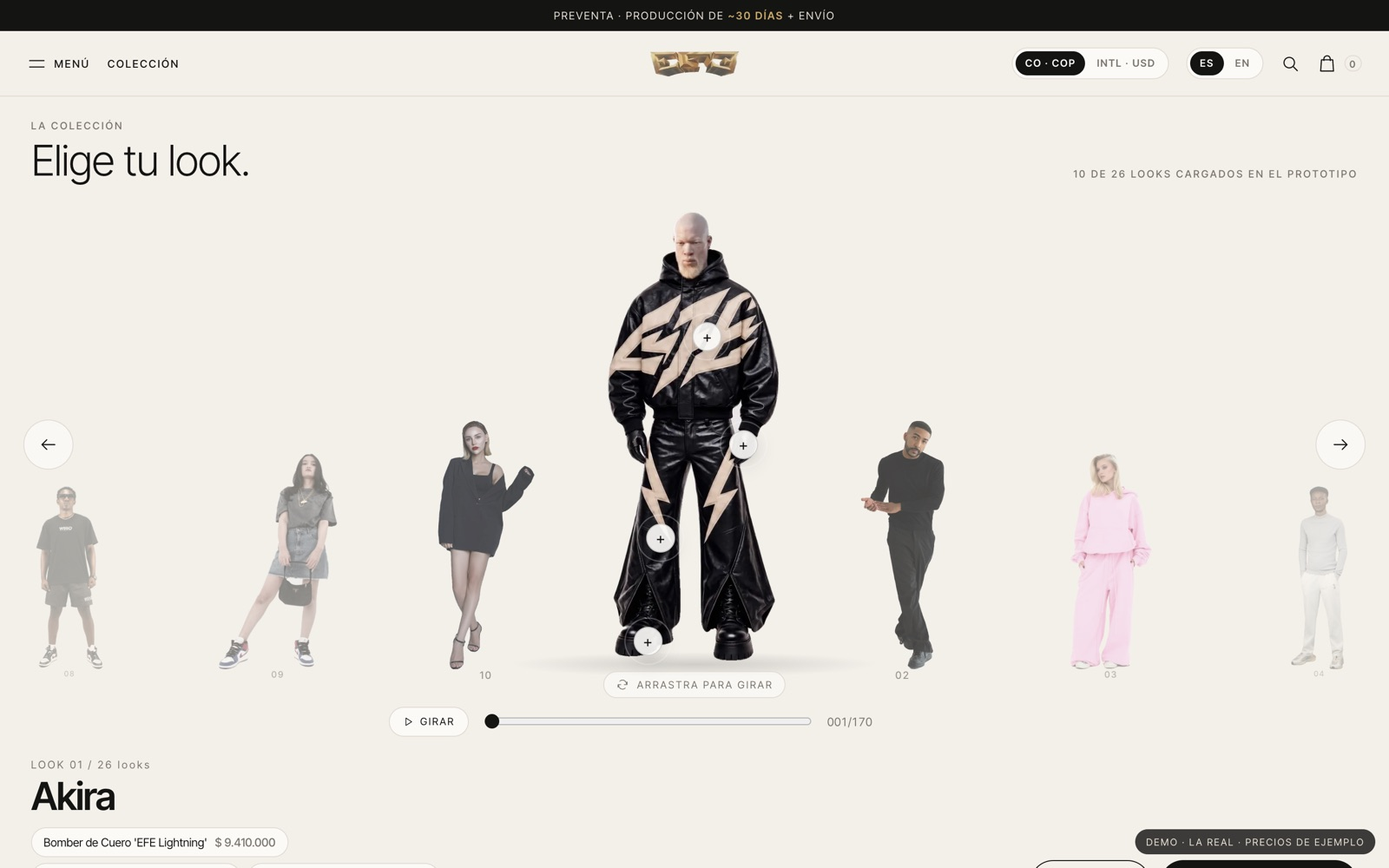
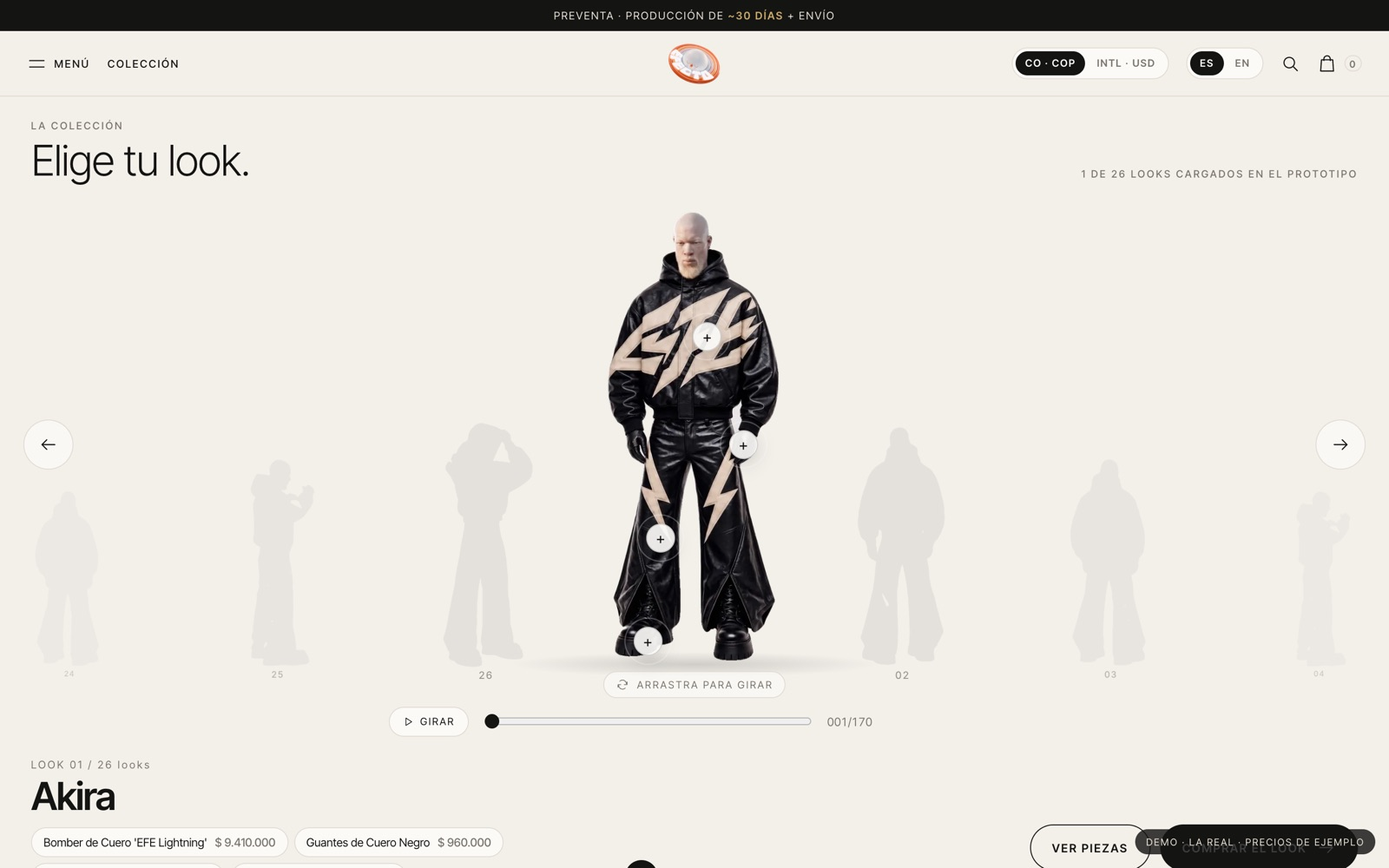
Marca Shopefecto y siluetas en lugar de looks de ejemplo

diff --git a/demo/index.html b/demo/index.html
@@ -4,7 +4,7 @@
 <meta charset="utf-8">
 <meta name="viewport" content="width=device-width,initial-scale=1,viewport-fit=cover">
 <meta name="robots" content="noindex">
-<title>EFE Showroom</title>
+<title>Shopefecto Showroom</title>
 <meta name="description" content="Prototipo funcional del showroom EFE Runway 2026: looks, giro 360°, compra por pieza en preventa, Colombia e internacional.">
 <link rel="preconnect" href="https://fonts.googleapis.com">
 <link rel="preconnect" href="https://fonts.gstatic.com" crossorigin>
@@ -33,7 +33,7 @@ img{display:block;max-width:100%}
 .intro.gone{opacity:0;visibility:hidden}
 .intro::before{content:"";position:absolute;inset:0;background:radial-gradient(60% 50% at 50% 42%,rgba(201,169,106,.16),transparent 70%);pointer-events:none}
 .intro .eyebrow{color:#a9a294}
-.intro img{width:min(246px,60vw);filter:drop-shadow(0 18px 40px rgba(201,169,106,.25))}
+.intro img{width:min(170px,44vw);filter:drop-shadow(0 18px 40px rgba(201,169,106,.25))}
 .intro h1{font-weight:300;font-size:clamp(22px,3vw,30px);letter-spacing:-.01em;margin:0;max-width:560px;line-height:1.25}
 .intro .markets{display:flex;gap:12px;flex-wrap:wrap;justify-content:center;margin-top:6px}
 .intro .mk{border:1px solid rgba(244,239,230,.25);border-radius:999px;padding:14px 22px;font-size:13px;letter-spacing:.06em;display:flex;gap:10px;align-items:center;transition:.25s}
@@ -48,7 +48,7 @@ img{display:block;max-width:100%}
 .top .r{justify-content:flex-end}
 .tbtn{display:inline-flex;align-items:center;gap:8px;font-size:11px;letter-spacing:.14em;text-transform:uppercase;min-height:44px;font-weight:500}
 .tbtn:hover{color:var(--gold)}
-.logo{height:26px;width:auto}
+.logo{height:42px;width:auto}
 .pill-sw{display:inline-flex;border:1px solid var(--line);border-radius:999px;padding:3px;gap:2px;background:var(--paper)}
 .pill-sw button{font-size:10.5px;letter-spacing:.1em;padding:6px 10px;white-space:nowrap;border-radius:999px;font-weight:600;color:var(--muted)}
 .pill-sw button[aria-pressed=true]{background:var(--ink);color:var(--paper)}
@@ -68,6 +68,8 @@ img{display:block;max-width:100%}
 #cast.dragging .figure{transition:transform .08s linear,opacity .3s}
 .figure .photo{transition:filter .9s ease}
 .figure.side .photo,.figure.far .photo{filter:saturate(.75) brightness(1.02)}
+.figure .photo.ph{filter:brightness(0)!important;opacity:.085}
+.figure.hero .photo.ph{opacity:.13}
 .hss{position:absolute;inset:0;opacity:0;transition:opacity .45s ease .45s;pointer-events:none}
 .hss.in{opacity:1}
 .figure.moving .hss{opacity:0;transition-delay:0s;transition-duration:.15s}
@@ -333,7 +335,7 @@ dialog.drawer.left[open]{animation:slideL .45s var(--ease)}
   .top{padding:0 12px;height:60px}
   .top .l,.top .r{gap:6px}
   .hide-m{display:none!important}
-  .logo{height:21px}
+  .logo{height:34px}
   .mast{padding:0 16px}
   .mast .side{display:none}
   .figure{--gap:clamp(96px,30vw,160px)}
@@ -392,7 +394,7 @@ dialog.drawer.left[open]{animation:slideL .45s var(--ease)}
 <!-- Intro / selector de mercado -->
 <section class="intro" id="intro" aria-label="Bienvenida" data-note="A · Landing de entrada + selector de mercado">
   <span class="eyebrow">Runway / 2026</span>
-  <img src="assets/logo.png" alt="EFE">
+  <img src="assets/logo-shopefecto.png" alt="Shopefecto">
   <h1 data-t="introH">La colección del desfile, pieza por pieza.</h1>
   <p class="geo" id="geo"></p>
   <div class="markets">
@@ -408,7 +410,7 @@ dialog.drawer.left[open]{animation:slideL .45s var(--ease)}
     <button class="tbtn" data-act="menu" aria-label="Menú"><svg class="icon"><use href="#i-menu"/></svg><span class="hide-m" data-t="menu">Menú</span></button>
     <button class="tbtn hide-m" data-act="goto" data-to="coleccion" data-t="collection">Colección</button>
   </div>
-  <a href="#" data-act="home" aria-label="EFE inicio"><img class="logo" src="assets/logo.png" alt="EFE"></a>
+  <a href="#" data-act="home" aria-label="Shopefecto inicio"><img class="logo" src="assets/logo-shopefecto.png" alt="Shopefecto"></a>
   <div class="r">
     <div class="pill-sw hide-m" role="group" aria-label="Mercado" data-note="B · Mercados CO / INTL">
       <button data-act="market" data-market="CO">CO · COP</button>
@@ -474,7 +476,7 @@ dialog.drawer.left[open]{animation:slideL .45s var(--ease)}
         <span class="lbl" data-t="popLbl">Render del inflable · lo entrega el estudio</span>
       </div>
       <div>
-        <span class="eyebrow">EFE Pop-up</span>
+        <span class="eyebrow">Shopefecto Pop-up</span>
         <h3 style="margin-bottom:16px" data-t="popTitle">Una tienda que se infla donde menos la esperas.</h3>
         <p class="lede" data-t="popText">Nuestra tienda itinerante e inflable recorre la ciudad. Pruébate la colección en persona, ve las piezas del desfile y lleva tu preventa.</p>
         <ul class="stops" id="stops"></ul>
@@ -487,19 +489,19 @@ dialog.drawer.left[open]{animation:slideL .45s var(--ease)}
     <div class="collectives">
       <a href="#" data-act="noop"><b>Estudio 3D</b><span data-t="coll1">Diseño, render y dirección visual detrás de cada look.</span><i data-t="visit">Visitar <svg class="icon" style="width:14px;height:14px"><use href="#i-ext"/></svg></i></a>
       <a href="#" data-act="noop"><b>Música</b><span data-t="coll2">El sonido del desfile y los proyectos musicales del colectivo.</span><i data-t="visit">Visitar <svg class="icon" style="width:14px;height:14px"><use href="#i-ext"/></svg></i></a>
-      <a href="#" data-act="noop"><b>shopefecto.com</b><span data-t="coll3">La tienda de siempre: colecciones disponibles con entrega inmediata en Colombia.</span><i data-t="visit">Visitar <svg class="icon" style="width:14px;height:14px"><use href="#i-ext"/></svg></i></a>
+      <a href="#" data-act="noop"><b>Colecciones anteriores</b><span data-t="coll3">La tienda de siempre: colecciones disponibles con entrega inmediata en Colombia.</span><i data-t="visit">Visitar <svg class="icon" style="width:14px;height:14px"><use href="#i-ext"/></svg></i></a>
     </div>
   </section>
 </main>
 
 <footer data-note="B · Footer: políticas, legales, medios de pago">
   <div class="foot">
-    <div><img src="assets/logo.png" alt="EFE" style="height:30px;margin-bottom:18px"><p data-t="footP">Colección Runway 2026. Todas las piezas se venden en preventa y se producen bajo pedido.</p></div>
+    <div><img src="assets/logo-shopefecto.png" alt="Shopefecto" style="height:56px;margin-bottom:14px"><p data-t="footP">Colección Runway 2026. Todas las piezas se venden en preventa y se producen bajo pedido.</p></div>
     <div><h5 data-t="shop">Tienda</h5><button data-act="goto" data-to="showroom">Looks</button><button data-act="goto" data-to="coleccion" data-t="collection">Colección</button><button data-act="goto" data-to="popup">Pop-up</button><button data-act="goto" data-to="colectivos" data-t="collectives">Colectivos</button></div>
     <div><h5 data-t="help">Ayuda</h5><button data-act="policy" data-p="preorder" data-t="pPre">Preventa</button><button data-act="policy" data-p="shipping" data-t="pShip">Envíos</button><button data-act="policy" data-p="returns" data-t="pRet">Cambios y devoluciones</button><button data-act="policy" data-p="sizes" data-t="pSize">Guía de tallas</button></div>
     <div><h5>Legal</h5><button data-act="policy" data-p="terms" data-t="pTerms">Términos y condiciones</button><button data-act="policy" data-p="privacy" data-t="pPriv">Privacidad</button><a href="#" data-act="noop">Instagram</a></div>
   </div>
-  <div class="legal"><span>© 2026 EFE</span><div class="pay" id="payIcons"></div></div>
+  <div class="legal"><span>© 2026 Shopefecto</span><div class="pay" id="payIcons"></div></div>
 </footer>
 
 <button class="notes-fab" data-act="roadmap" aria-label="Notas del prototipo"><i>?</i><span>¿La logramos? · Notas</span></button>
@@ -529,54 +531,10 @@ const LOOKS=[
    ['ak-gloves','accessories',290,73,52,['S/M','L/XL'],'Guantes de Cuero Negro','Black Leather Gloves','Napa suave con puño ajustado.','Soft nappa with a fitted cuff.'],
    ['ak-pants','pants',1890,34,72,['S','M','L','XL'],"Pantalón Flare 'Bolt'","'Bolt' Flared Trousers",'Cuero negro de bota acampanada con rayos en contraste y abertura en el ruedo.','Black leather flare with contrast bolts and a split hem.'],
    ['ak-boots','footwear',1250,28,94,['39','40','41','42','43','44'],"Botas 'EFE Titan'","'EFE Titan' Boots",'Bota de combate de doble suela dentada.','Double lug-sole combat boot.']]},
- {id:2,name:'Noir Tailoring',img:M('jaQTN9X98wA'),ar:472/1400,
-  items:[
-   ['l1-knit','tops',420,62,25,['S','M','L','XL'],'Suéter Merino Noir','Noir Merino Knit','Tejido fino de merino en negro profundo, cuello redondo y caída limpia.','Fine-gauge merino in deep black, crew neck, clean drape.'],
-   ['l1-pants','pants',480,58,66,['28','30','32','34','36'],'Pantalón Sastre Recto','Straight Tailored Trousers','Lana fría con pinza frontal y bota recta.','Tropical wool with a front pleat and straight leg.'],
-   ['l1-shoes','footwear',560,66,96,['39','40','41','42','43','44'],'Derby de Cuero Negro','Black Leather Derby','Cuero pulido con suela de goma ligera.','Polished leather with a light rubber sole.']]},
- {id:3,name:'Rosa Volumen',img:M('4ywQOCAl2XI'),ar:528/1400,
-  items:[
-   ['l2-hoodie','tops',320,48,30,['XS','S','M','L'],'Hoodie Oversized Rosa','Oversized Pink Hoodie','Felpa pesada de 450 gsm, capucha doble y hombro caído.','450 gsm heavyweight fleece, double hood, dropped shoulder.'],
-   ['l2-pants','pants',290,40,68,['XS','S','M','L'],'Jogger Wide Rosa','Wide Pink Jogger','Pierna amplia con cordón y ruedo abierto.','Wide leg with drawcord and open hem.'],
-   ['l2-shoes','footwear',380,30,97,['35','36','37','38','39','40'],'Sneaker Blanco Low','White Low Sneaker','Cuero blanco y suela vulcanizada.','White leather, vulcanised sole.']]},
- {id:4,name:'Gris Calma',img:M('nS1kxf6nP24'),ar:430/1400,
-  items:[
-   ['l3-knit','tops',360,54,23,['S','M','L','XL'],'Cuello Alto Gris Perla','Pearl Grey Mock Neck','Punto acanalado ajustado en gris perla.','Close-fitting ribbed knit in pearl grey.'],
-   ['l3-pants','pants',310,50,64,['S','M','L','XL'],'Jogger Crudo Bordado','Embroidered Ecru Jogger','Algodón cepillado con bordado EFE en la pierna.','Brushed cotton with EFE embroidery on the leg.'],
-   ['l3-shoes','footwear',450,38,96,['39','40','41','42','43','44'],'Runner Arena','Sand Runner','Malla técnica y gamuza en tonos arena.','Technical mesh and suede in sand tones.']]},
- {id:5,name:'Cuero Nocturno',img:M('YfBInBEDxJs'),ar:539/1400,
-  items:[
-   ['l4-coat','outerwear',1650,50,32,['XS','S','M','L'],'Gabardina de Cuero con Cinturón','Belted Leather Trench','Napa negra encerada, cinturón anudado y hombro estructurado.','Waxed black nappa, tie belt and structured shoulder.'],
-   ['l4-skirt','pants',620,50,72,['XS','S','M','L'],'Falda Midi de Cuero','Leather Midi Skirt','Corte recto a media pierna con abertura posterior.','Straight mid-calf cut with a back slit.'],
-   ['l4-boots','footwear',780,50,96,['35','36','37','38','39','40'],'Botín Punta Fina','Pointed Ankle Boot','Cuero negro, tacón bloque de 50 mm.','Black leather, 50 mm block heel.']]},
- {id:6,name:'Denim Ancho',img:M('wePLgr6wZHc'),ar:541/1400,
-  items:[
-   ['l6-tank','tops',140,52,27,['XS','S','M','L'],'Tank Acanalado WET','WET Ribbed Tank','Algodón acanalado con estampado frontal.','Ribbed cotton with front print.'],
-   ['l6-jeans','pants',390,50,64,['24','26','28','30','32'],'Jean Cargo Wide','Wide Cargo Jean','Denim lavado claro con bolsillos cargo laterales.','Light-wash denim with side cargo pockets.'],
-   ['l6-shoes','footwear',420,24,96,['35','36','37','38','39','40'],'Sneaker Retro Lila','Lilac Retro Sneaker','Gamuza y cuero en lila y blanco.','Suede and leather in lilac and white.']]},
- {id:7,name:'Contraste',img:M('fZE-hydbrng'),ar:529/1400,
-  items:[
-   ['l7-blazer','outerwear',890,35,32,['XS','S','M','L'],'Blazer Cruzado Negro','Black Double-Breasted Blazer','Lana negra con hombro marcado y largo a la cadera.','Black wool, sharp shoulder, hip length.'],
-   ['l7-pants','pants',460,55,72,['XS','S','M','L'],'Palazzo Blanco Óptico','Optic White Palazzo','Tiro alto y pierna extra amplia con caída fluida.','High rise, extra-wide fluid leg.'],
-   ['l7-heels','footwear',610,84,96,['35','36','37','38','39','40'],'Stiletto Charol','Patent Stiletto','Punta afilada y tacón de 100 mm.','Pointed toe, 100 mm heel.']]},
- {id:8,name:'Calle',img:M('13eaC9bFjGQ'),ar:511/1400,
-  items:[
-   ['l8-glasses','accessories',190,44,5,['U'],'Gafas Slim Negras','Slim Black Sunglasses','Montura rectangular delgada, lente UV400.','Slim rectangular frame, UV400 lens.'],
-   ['l8-tee','tops',150,46,26,['S','M','L','XL'],'Camiseta Boxy Logo','Boxy Logo Tee','Algodón de 260 gsm con estampado en pecho.','260 gsm cotton with chest print.'],
-   ['l8-shorts','pants',220,53,57,['S','M','L','XL'],'Short Nylon Técnico','Technical Nylon Short','Nylon liviano con logo bordado.','Lightweight nylon with embroidered logo.'],
-   ['l8-shoes','footwear',470,82,95,['39','40','41','42','43','44'],'Sneaker High Tricolor','Tricolor High-Top','Cuero en negro, blanco y rojo.','Leather in black, white and red.']]},
- {id:9,name:'Mini Denim',img:M('6DaWU_VZ6Xg'),ar:765/1400,
-  items:[
-   ['l9-tee','tops',150,70,26,['XS','S','M','L'],'Camiseta Lavada Grafito','Washed Graphite Tee','Algodón lavado a la piedra, corte boxy.','Stone-washed cotton, boxy cut.'],
-   ['l9-skirt','pants',260,66,46,['24','26','28','30'],'Mini Falda Denim','Denim Mini Skirt','Denim rígido con ruedo deshilachado.','Rigid denim with a frayed hem.'],
-   ['l9-bag','accessories',540,62,62,['U'],'Bolso Media Luna','Half-Moon Bag','Nylon negro con herrajes metálicos.','Black nylon with metal hardware.'],
-   ['l9-shoes','footwear',420,18,92,['35','36','37','38','39','40'],'Sneaker High Navy','Navy High-Top','Cuero en azul, blanco y rojo.','Leather in navy, white and red.']]},
- {id:10,name:'Blazer Noche',img:M('7bHYFyelqXM'),ar:542/1400,
-  items:[
-   ['l10-blazer','outerwear',980,40,30,['XS','S','M','L'],'Blazer Vestido Oversized','Oversized Blazer Dress','Blazer largo que se usa como vestido, solapa en pico.','Long blazer worn as a dress, peak lapel.'],
-   ['l10-heels','footwear',560,34,94,['35','36','37','38','39','40'],'Sandalia de Tiras','Strappy Sandal','Tiras finas de cuero y tacón de 90 mm.','Fine leather straps, 90 mm heel.']]}
 ];
 const TOTAL_LOOKS=26; // lanzamiento real
+// Personajes 02–26: siluetas hasta que lleguen sus frames
+for(let k=2;k<=TOTAL_LOOKS;k++) LOOKS.push({id:k,name:'',ph:true,ar:453/1000,img:`assets/akira/f${String([0,22,44,66,88,120,150][k%7]).padStart(3,'0')}.webp`,items:[]});
 LOOKS.forEach((L,i)=>{
   L.code='LOOK '+String(L.id).padStart(2,'0');
   L.items=L.items.map(a=>({id:a[0],cat:a[1],usd:a[2],x:a[3],y:a[4],sizes:a[5],name:{es:a[6],en:a[7]},desc:{es:a[8],en:a[9]},look:L}));
@@ -591,7 +549,7 @@ const PROD_DAYS=30;
 /* ================= I18N ================= */
 const T={
  es:{introH:'La colección del desfile, pieza por pieza.',introDate:'Preventa abierta · 16 de octubre',announce:'Preventa · Producción de <b>~30 días</b> + envío',menu:'Menú',collection:'Colección',theCollection:'La colección',chooseLook:'Elige tu look.',explore:'Ver piezas',shopLook:'Comprar el look',allPieces:'Todas las piezas.',searchPh:'Buscar pieza o look',popLbl:'Render del inflable · lo entrega el estudio',popTitle:'Una tienda que se infla donde menos la esperas.',popText:'Nuestra tienda itinerante e inflable recorre la ciudad. Pruébate la colección en persona, ve las piezas del desfile y aparta tu preventa.',ecosystem:'Ecosistema',collTitle:'Nuestros colectivos.',coll1:'Diseño, render y dirección visual detrás de cada look.',coll2:'El sonido del desfile y los proyectos musicales del colectivo.',coll3:'La tienda de siempre: colecciones disponibles con entrega inmediata en Colombia.',visit:'Visitar',footP:'Colección Runway 2026. Todas las piezas se venden en preventa y se producen bajo pedido.',shop:'Tienda',help:'Ayuda',collectives:'Colectivos',pPre:'Preventa',pShip:'Envíos',pRet:'Cambios y devoluciones',pSize:'Guía de tallas',pTerms:'Términos y condiciones',pPriv:'Privacidad',
-  looksOf:(n,t)=>`${n} / ${t} looks`,lookCount:(s,t)=>`${s} de ${t} looks cargados en el prototipo`,pieces:n=>`${n} piezas`,lookTotal:p=>`Look completo · ${p}`,drag:'Arrastra para girar',spin:'Girar',stop:'Pausa',no360:'Vista frontal',try360:'Prueba el giro 360° en el',loading:'Cargando giro',
+  looksOf:(n,t)=>`${n} / ${t} looks`,lookCount:(s,t)=>`${s} de ${t} looks cargados en el prototipo`,pieces:n=>`${n} piezas`,lookTotal:p=>`Look completo · ${p}`,drag:'Arrastra para girar',spin:'Girar',stop:'Pausa',no360:'Vista frontal',try360:'Prueba el giro 360° en el',soon:'Próximamente',soonTxt:'Personaje en producción',soonRot:'Frames en producción',inProd:'en producción',loading:'Cargando giro',
   all:'Todo',cats:{outerwear:'Chaquetas',tops:'Tops',pants:'Pantalones',footwear:'Calzado',accessories:'Accesorios'},noResults:'No encontramos piezas con esa búsqueda.',
   preorder:'Preventa',preTxt:d=>`Se produce bajo pedido: ~${PROD_DAYS} días de producción + envío. Despacho estimado desde el <strong>${d}</strong>.`,size:'Talla',sizeGuide:'Guía de tallas',qty:'Cantidad',add:'Agregar a la bolsa · Preventa',pickSize:'Elige una talla para continuar.',details:'Detalles',shipRet:'Envíos y cambios',complete:'Completa el look',ofLook:'del',photoPending:'Foto de la pieza sola · pendiente',
   bag:'Tu bolsa',empty:'Tu bolsa está vacía.',keep:'Seguir explorando',remove:'Quitar',subtotal:'Subtotal',shipping:'Envío',insurance:'Seguro de envío',total:'Total estimado',checkout:'Ir a pagar',zone:'Destino',dutiesNote:'<b>Impuestos y aranceles</b> de importación no están incluidos y los paga quien recibe al momento de la entrega.',coShipNote:'<b>Envío nacional</b> calculado en el checkout según ciudad.',preNote:'Todas las piezas son <b>preventa</b>: se cobran hoy y se despachan al terminar producción.',added:n=>`${n} en tu bolsa`,addedN:n=>`${n} piezas agregadas`,
@@ -599,7 +557,7 @@ const T={
   menuLooks:'Looks',menuColl:'Colección',menuPop:'Pop-up',menuColls:'Colectivos',menuPolicies:'Políticas',menuContact:'Contacto',policies:'Políticas',
   geoCO:'Parece que estás en Colombia.',geoINTL:'It looks like you are outside Colombia.',checkTitle:'Checkout de Shopify',checkTxt:'Aquí el cliente sale al checkout nativo de Shopify con la bolsa armada (cart permalink). Pasarelas por mercado:',back:'Volver a la tienda',zones:{na:'Estados Unidos y Canadá',eu:'Europa',la:'Latinoamérica',ro:'Resto del mundo'}},
  en:{introH:'The runway collection, piece by piece.',introDate:'Pre-order opens · October 16',announce:'Pre-order · <b>~30-day</b> production + shipping',menu:'Menu',collection:'Collection',theCollection:'The collection',chooseLook:'Choose your look.',explore:'View pieces',shopLook:'Shop the look',allPieces:'Every piece.',searchPh:'Search a piece or look',popLbl:'Inflatable render · supplied by the studio',popTitle:'A store that inflates where you least expect it.',popText:'Our travelling inflatable store tours the city. Try the collection on, see the runway pieces up close and place your pre-order.',ecosystem:'Ecosystem',collTitle:'Our collectives.',coll1:'Design, rendering and visual direction behind every look.',coll2:'The sound of the show and the collective’s music projects.',coll3:'Our everyday store: collections in stock, delivered across Colombia.',visit:'Visit',footP:'Runway 2026 collection. Every piece is sold on pre-order and made to order.',shop:'Shop',help:'Help',collectives:'Collectives',pPre:'Pre-order',pShip:'Shipping',pRet:'Returns & exchanges',pSize:'Size guide',pTerms:'Terms & conditions',pPriv:'Privacy',
-  looksOf:(n,t)=>`${n} / ${t} looks`,lookCount:(s,t)=>`${s} of ${t} looks loaded in this prototype`,pieces:n=>`${n} pieces`,lookTotal:p=>`Full look · ${p}`,drag:'Drag to rotate',spin:'Spin',stop:'Pause',no360:'Front view',try360:'Try the 360° spin on',loading:'Loading spin',
+  looksOf:(n,t)=>`${n} / ${t} looks`,lookCount:(s,t)=>`${s} of ${t} looks loaded in this prototype`,pieces:n=>`${n} pieces`,lookTotal:p=>`Full look · ${p}`,drag:'Drag to rotate',spin:'Spin',stop:'Pause',no360:'Front view',try360:'Try the 360° spin on',soon:'Coming soon',soonTxt:'Character in production',soonRot:'Frames in production',inProd:'in production',loading:'Loading spin',
   all:'All',cats:{outerwear:'Outerwear',tops:'Tops',pants:'Trousers',footwear:'Footwear',accessories:'Accessories'},noResults:'No pieces match your search.',
   preorder:'Pre-order',preTxt:d=>`Made to order: ~${PROD_DAYS} days of production + shipping. Estimated dispatch from <strong>${d}</strong>.`,size:'Size',sizeGuide:'Size guide',qty:'Quantity',add:'Add to bag · Pre-order',pickSize:'Choose a size to continue.',details:'Details',shipRet:'Shipping & returns',complete:'Complete the look',ofLook:'from',photoPending:'Single-piece photo · pending',
   bag:'Your bag',empty:'Your bag is empty.',keep:'Keep exploring',remove:'Remove',subtotal:'Subtotal',shipping:'Shipping',insurance:'Shipping insurance',total:'Estimated total',checkout:'Checkout',zone:'Destination',dutiesNote:'<b>Import duties and taxes</b> are not included and are paid by the recipient on delivery.',coShipNote:'<b>Domestic shipping</b> calculated at checkout.',preNote:'Every piece is a <b>pre-order</b>: charged today, shipped when production is complete.',added:n=>`${n} added to your bag`,addedN:n=>`${n} pieces added`,
@@ -638,7 +596,7 @@ function figureInner(L,frame=0){
   // velo sobre el control de reproductor que quedó grabado en las capturas de referencia
   const veil=L.cover?`<span class="veil" style="left:${L.cover.x}%;top:${L.cover.y}%;width:${L.cover.s}%"></span>`:'';
   if(L.frames) return `<img class="photo" src="${L.frameSrc[frame]}" alt="${L.code} · ${esc(L.name)}" draggable="false">${veil}`;
-  return `<img class="photo" src="${L.img}" alt="${L.code} · ${esc(L.name)}" draggable="false" decoding="async">`;
+  return L.ph ? `<img class="photo ph" src="${L.img}" alt="" draggable="false" decoding="async">` : `<img class="photo" src="${L.img}" alt="${L.code} · ${esc(L.name)}" draggable="false" decoding="async">`;
 }
 /* Recorte de la pieza a partir del look (placeholder hasta tener la foto de la pieza sola) */
 function pieceCrop(it,zoom=1){
@@ -696,14 +654,16 @@ function renderInfo(animate=false){
   const Lk=look();
   const fill=()=>{
     $('#lookNum').textContent=t('looksOf')(Lk.code,TOTAL_LOOKS);
-    $('#lookTitle').textContent=Lk.name;
+    $('#lookTitle').textContent=Lk.ph?t('soon'):Lk.name;
+    $('.cta').style.visibility=Lk.ph?'hidden':'';
+    if(Lk.ph){$('#pieces').innerHTML=`<span class="none" style="font-size:12px;letter-spacing:.12em;text-transform:uppercase;color:var(--muted)">${t('soonTxt')}</span>`;$('#totalLook').textContent='';return}
     $('#pieces').innerHTML=Lk.items.map(it=>`<button class="chip" data-act="product" data-id="${it.id}">${esc(nm(it))}<b>${money(it.usd)}</b></button>`).join('');
     $('#totalLook').textContent=t('lookTotal')(money(Lk.items.reduce((s,it)=>s+it.usd,0)));
   };
   const box=$('#lookText');
   if(animate){box.classList.add('out');clearTimeout(renderInfo.t);renderInfo.t=setTimeout(()=>{fill();box.classList.remove('out')},220)}else fill();
-  $('#idx').innerHTML=LOOKS.map((l,i)=>`<button data-act="look" data-i="${i}" aria-current="${i===S.i}" aria-label="${l.code}">${String(l.id).padStart(2,'0')}${l.frames?'<sup>360</sup>':''}</button>`).join('')+`<span class="more">+${TOTAL_LOOKS-LOOKS.length}</span>`;
-  $('#lookCountTxt').textContent=t('lookCount')(LOOKS.length,TOTAL_LOOKS);
+  $('#idx').innerHTML=LOOKS.map((l,i)=>l.ph?'':`<button data-act="look" data-i="${i}" aria-current="${i===S.i}" aria-label="${l.code}">${String(l.id).padStart(2,'0')}${l.frames?'<sup>360</sup>':''}</button>`).join('')+`<span class="more">+${LOOKS.filter(l=>l.ph).length} ${t('inProd')}</span>`;
+  $('#lookCountTxt').textContent=t('lookCount')(LOOKS.filter(l=>!l.ph).length,TOTAL_LOOKS);
   renderRot();
 }
 function renderRot(){
@@ -715,7 +675,7 @@ function renderRot(){
     $('#rng').addEventListener('input',e=>{stopSpin();setFrame(+e.target.value)});
   } else {
     const d=LOOKS.findIndex(l=>l.frames);
-    $('#rot').innerHTML=`<span class="none">${t('no360')}</span>${d>=0?`<button class="play" data-act="look" data-i="${d}"><svg class="icon" style="width:13px;height:13px"><use href="#i-rotate"/></svg>${t('try360')} ${LOOKS[d].code}</button>`:''}`;
+    $('#rot').innerHTML=`<span class="none">${Lk.ph?t('soonRot'):t('no360')}</span>${d>=0?`<button class="play" data-act="look" data-i="${d}"><svg class="icon" style="width:13px;height:13px"><use href="#i-rotate"/></svg>${t('try360')} ${LOOKS[d].code}</button>`:''}`;
   }
 }
 const frameLabel=Lk=>Lk.seq?`${String(S.frame+1).padStart(3,'0')}/${Lk.frames}`:Math.round(S.frame*360/Lk.frames)+'°';
@@ -919,7 +879,7 @@ function openCheckout(){
 
 /* menu */
 function openMenu(){
-  openDrawer('EFE',`<nav class="mnav">
+  openDrawer('Shopefecto',`<nav class="mnav">
     <button data-act="goto" data-to="showroom">${t('menuLooks')}<span class="sub">${TOTAL_LOOKS}</span></button>
     <button data-act="goto" data-to="coleccion">${t('menuColl')}<span class="sub">${PRODUCTS.size}+</span></button>
     ${Object.entries(t('cats')).map(([k,v])=>`<button data-act="gotoCat" data-c="${k}" style="font-size:18px;padding-left:16px;color:#4a473f">${v}</button>`).join('')}
@@ -1026,7 +986,7 @@ function openRoadmap(){
     3. <b>Pasarela internacional no aprobada</b> → el sitio internacional abre como lookbook con lista de espera hasta tener pasarela.<br>
     4. <b>Más looks o interacciones de las acordadas</b> → pasan a fase 2 (Plan C).</p>
   </div>
-  <p class="note" style="margin-top:30px">El Look 01 (AKIRA) usa los 170 frames reales del estudio: giro completo + animación de capucha, fondo recortado y optimizado a WebP. Los demás looks usan fotos libres de Unsplash con el fondo recortado, solo para ilustrar; en producción van los frames de cada personaje. Precios de ejemplo.</p>
+  <p class="note" style="margin-top:30px">El Look 01 (AKIRA) usa los 170 frames reales del estudio: giro completo + animación de capucha, fondo recortado y optimizado a WebP. Los otros 25 personajes aparecen como siluetas hasta que lleguen sus frames. Precios de ejemplo.</p>
   </div>`;
   openDrawer('¿La logramos? · Notas LA REAL',body,{cls:'wide'});
   $('#annSw').addEventListener('change',e=>{document.body.classList.toggle('ann',e.target.checked);write('efe-ann',e.target.checked)});
@@ -1073,8 +1033,8 @@ document.addEventListener('click',e=>{
       const it=PRODUCTS.get(id);
       if(!S.pickedSize){$('#sizeErr').textContent=t('pickSize');$('.sizes').animate([{transform:'translateX(-4px)'},{transform:'translateX(4px)'},{transform:'none'}],{duration:220});return}
       addToCart(id,S.pickedSize,S.qty); dlg.close(); toast(t('added')(nm(it))); break;}
-    case 'pieceSheet': openProduct(look().items[0].id); break;
-    case 'shopLook': openShopLook(); break;
+    case 'pieceSheet': if(look().items.length) openProduct(look().items[0].id); break;
+    case 'shopLook': if(look().items.length) openShopLook(); break;
     case 'lpOn': S.lookPick[id].on=b.checked; renderShopLook(); break;
     case 'lpSize': S.lookPick[id].size=b.dataset.s; S.lookPick[id].on=true; renderShopLook(); break;
     case 'lpAdd': {const sel=look().items.filter(it=>S.lookPick[it.id].on&&S.lookPick[it.id].size);sel.forEach(it=>addToCart(it.id,S.lookPick[it.id].size,1));dlg.close();toast(t('addedN')(sel.length));setTimeout(openCart,350);break;}

diff --git a/index.html b/index.html
@@ -4,9 +4,9 @@
     <meta charset="UTF-8">
     <meta name="viewport" content="width=device-width, initial-scale=1.0">
     <meta name="robots" content="noindex, nofollow">
-    <title>Showroom Runway 2026 — EFE x LA REAL</title>
+    <title>Showroom Runway 2026 — Shopefecto x LA REAL</title>
 
-    <meta property="og:title" content="Showroom Runway 2026 — EFE x LA REAL">
+    <meta property="og:title" content="Showroom Runway 2026 — Shopefecto x LA REAL">
     <meta property="og:description" content="Propuesta: showroom de 26 personajes en Shopify, web y mobile, Colombia e internacional. Entrega jueves 15 de octubre.">
     <meta property="og:image" content="https://juanfelareal.github.io/efe-showroom-propuesta/og-image.jpg">
     <meta property="og:url" content="https://juanfelareal.github.io/efe-showroom-propuesta/">
@@ -31,7 +31,7 @@
         .doc-head { display: flex; align-items: center; justify-content: space-between; gap: 20px; padding-bottom: 28px; border-bottom: 1px solid var(--line); margin-bottom: 44px; }
         .brands { display: flex; align-items: center; gap: 14px; }
         .brands img.lareal { height: 30px; filter: brightness(0); opacity: 0.9; }
-        .brands img.client { height: 28px; }
+        .brands img.client { height: 42px; }
         .brands .x { color: #9ca3af; font-weight: 300; font-size: 18px; }
         .doc-meta { font-size: 12px; font-weight: 600; letter-spacing: 1px; text-transform: uppercase; color: var(--muted); text-align: right; }
         .eyebrow { font-size: 12px; font-weight: 700; letter-spacing: 3px; text-transform: uppercase; color: var(--green); margin-bottom: 16px; }
@@ -211,16 +211,16 @@
     <div class="page">
 
         <div class="doc-head">
-            <div class="brands"><img class="lareal" src="logo-la-real.png" alt="LA REAL"><span class="x">×</span><img class="client" src="logo-efe.png" alt="EFE"></div>
+            <div class="brands"><img class="lareal" src="logo-la-real.png" alt="LA REAL"><span class="x">×</span><img class="client" src="logo-shopefecto.png" alt="Shopefecto"></div>
             <div class="doc-meta">Propuesta · 8 de octubre de 2026<br>Entrega: jueves 15 de octubre</div>
         </div>
 
         <!-- ===== TÍTULO + AKIRA ===== -->
         <div class="hero">
             <div>
-                <div class="eyebrow">Showroom EFE · Runway 2026</div>
+                <div class="eyebrow">Showroom Shopefecto · Runway 2026</div>
                 <h1>La colección del desfile, para comprarla pieza por pieza</h1>
-                <p class="lede">Desarrollo del showroom de <span class="brand">EFE</span> en Shopify: 26 personajes que giran, cada prenda conectada a su producto, venta en preventa y tienda para Colombia y el exterior.</p>
+                <p class="lede">Desarrollo del showroom de <span class="brand">Shopefecto</span> en Shopify: 26 personajes que giran, cada prenda conectada a su producto, venta en preventa y tienda para Colombia y el exterior.</p>
                 <ul class="hero-facts">
                     <li><span><b>26 personajes</b> con giro por frames</span></li>
                     <li><span><b>Web y mobile</b>, montado en su Shopify</span></li>
@@ -229,7 +229,7 @@
             </div>
             <div class="stage" id="stage" aria-label="AKIRA, arrastra para girar">
                 <span class="stage-load" id="stageLoad"></span>
-                <img id="akira" src="demo/assets/akira/f000.webp" alt="AKIRA, Look 01 de EFE" draggable="false">
+                <img id="akira" src="demo/assets/akira/f000.webp" alt="AKIRA, Look 01 de Shopefecto" draggable="false">
                 <div class="stage-ui"><span class="hint">Arrastra para girar</span><span class="bar"><i id="akBar"></i></span></div>
             </div>
         </div>
@@ -237,7 +237,7 @@
         <!-- ===== CONTEXTO ===== -->
         <section>
             <h2>Contexto</h2>
-            <p>La colección se lanza en la Fashion Week del <strong>viernes 16 de octubre</strong> y la página tiene que estar lista para vender ese día. Las piezas todavía no están producidas, así que la venta es por preventa. Hoy tienen <span class="brand">shopefecto.com</span> para Colombia y quieren una sola experiencia que también venda al exterior.</p>
+            <p>La colección se lanza en la Fashion Week del <strong>viernes 16 de octubre</strong> y la página tiene que estar lista para vender ese día. Las piezas todavía no están producidas, así que la venta es por preventa. Hoy <span class="brand">Shopefecto</span> vende en Colombia desde shopefecto.com y quiere una sola experiencia que también venda al exterior.</p>
             <div class="pillars">
                 <div class="pillar"><div class="pillar-n">01</div><div class="pillar-t">26 looks como personajes</div><p>Un carrusel donde cada look aparece completo, gira, y cada prenda se puede tocar para comprarla sola.</p></div>
                 <div class="pillar"><div class="pillar-n">02</div><div class="pillar-t">Venta en preventa</div><p>~30 días de producción más el envío, con la fecha estimada clara para quien compra.</p></div>
@@ -251,12 +251,12 @@
             <h2>Ya lo probamos con AKIRA</h2>
             <p>Tomamos los 170 frames del Look 01, les quitamos el fondo, los optimizamos y los conectamos al visor. Así se va a ver cada uno de los 26 personajes. La demo de abajo funciona: pueden pasar de un look a otro, girar a <span class="brand">AKIRA</span>, abrir la ficha de una prenda y cambiar a la tienda internacional en inglés y dólares.</p>
             <div class="demo-frame">
-                <iframe id="demoFrame" title="Demo del showroom EFE" data-src="demo/?embed" loading="lazy"></iframe>
-                <img src="cap-web-showroom.jpg" alt="Showroom EFE en computador">
+                <iframe id="demoFrame" title="Demo del showroom Shopefecto" data-src="demo/?embed" loading="lazy"></iframe>
+                <img src="cap-web-showroom.jpg" alt="Showroom Shopefecto en computador">
             </div>
             <div class="demo-actions">
                 <a class="btn" href="demo/" target="_blank" rel="noopener">Abrir la demo completa ↗</a>
-                <span class="demo-tip">Los demás looks usan fotos de referencia; los precios son de ejemplo.</span>
+                <span class="demo-tip">Los otros 25 personajes aparecen como siluetas hasta que lleguen sus frames. Precios de ejemplo.</span>
             </div>
         </section>
 
@@ -402,7 +402,7 @@
         <div class="next">
             <h2>Siguiente paso</h2>
             <p>Ezequiel, Claudia: si lo aprueban hoy, arrancamos esta tarde con el kickoff y armamos el grupo con Juan y Meli para ir resolviendo accesos, pasarela y frames.</p>
-            <a class="cta" href="https://wa.me/573043148428?text=Hola%20Juan%20Felipe%2C%20vimos%20la%20propuesta%20del%20showroom%20EFE" target="_blank" rel="noopener">
+            <a class="cta" href="https://wa.me/573043148428?text=Hola%20Juan%20Felipe%2C%20vimos%20la%20propuesta%20del%20showroom%20Shopefecto" target="_blank" rel="noopener">
                 <svg viewBox="0 0 24 24" fill="none" stroke="#fff" stroke-width="2"><path d="M22 16.92v3a2 2 0 0 1-2.18 2 19.79 19.79 0 0 1-8.63-3.07 19.5 19.5 0 0 1-6-6 19.79 19.79 0 0 1-3.07-8.67A2 2 0 0 1 4.11 2h3a2 2 0 0 1 2 1.72 12.84 12.84 0 0 0 .7 2.81 2 2 0 0 1-.45 2.11L8.09 9.91a16 16 0 0 0 6 6l1.27-1.27a2 2 0 0 1 2.11-.45 12.84 12.84 0 0 0 2.81.7A2 2 0 0 1 22 16.92z"/></svg>
                 Hablemos por WhatsApp
             </a>

diff --git a/slides.html b/slides.html
@@ -4,8 +4,8 @@
 <meta charset="UTF-8">
 <meta name="viewport" content="width=device-width, initial-scale=1.0">
 <meta name="robots" content="noindex, nofollow">
-<title>EFE — Propuesta Showroom Runway 2026 | LA REAL</title>
-<meta property="og:title" content="EFE — Propuesta Showroom Runway 2026 | LA REAL">
+<title>Shopefecto — Propuesta Showroom Runway 2026 | LA REAL</title>
+<meta property="og:title" content="Shopefecto — Propuesta Showroom Runway 2026 | LA REAL">
 <meta property="og:description" content="La colección del desfile, para comprarla pieza por pieza. 26 personajes, web y mobile, Shopify, Colombia e internacional.">
 <meta property="og:image" content="https://juanfelareal.github.io/efe-showroom-propuesta/og-image.jpg">
 <meta property="og:url" content="https://juanfelareal.github.io/efe-showroom-propuesta/">
@@ -256,7 +256,7 @@ h2{font-size:52px;font-weight:900;letter-spacing:-2px;line-height:1.05;text-alig
 <section class="slide slide-dark slide-portada" id="slide1">
   <div class="cover">
     <div>
-      <div class="cobrand"><img class="efe" src="logo-efe.png" alt="EFE"><span>×</span><img class="lr" src="logo-la-real.png" alt="LA REAL"></div>
+      <div class="cobrand"><img class="efe" src="logo-shopefecto.png" alt="Shopefecto"><span>×</span><img class="lr" src="logo-la-real.png" alt="LA REAL"></div>
       <span class="section-tag">Propuesta · Runway 2026</span>
       <h1>La colección del desfile, <span class="thin">para comprarla pieza por pieza.</span></h1>
       <p class="subtitle">Showroom de 26 personajes en Shopify, para web y celular, en Colombia y el exterior. Entrega el jueves 15 de octubre.</p>
@@ -268,7 +268,7 @@ h2{font-size:52px;font-weight:900;letter-spacing:-2px;line-height:1.05;text-alig
     </div>
     <div class="stage" id="stage" aria-label="AKIRA, arrastra para girar">
       <span class="stage-load" id="stageLoad"></span>
-      <img id="akira" src="demo/assets/akira/f000.webp" alt="AKIRA, Look 01 de EFE" draggable="false">
+      <img id="akira" src="demo/assets/akira/f000.webp" alt="AKIRA, Look 01 de Shopefecto" draggable="false">
       <div class="stage-ui"><span class="hint">Arrastra para girar</span><span class="bar"><i id="akBar"></i></span></div>
     </div>
   </div>
@@ -304,7 +304,7 @@ h2{font-size:52px;font-weight:900;letter-spacing:-2px;line-height:1.05;text-alig
       <a class="btn-demo" href="demo/" target="_blank" rel="noopener">Abrir la demo completa ↗</a>
     </div>
     <div class="laptop" id="laptop">
-      <iframe id="demoFrame" title="Demo del showroom EFE" data-src="demo/?embed" loading="lazy"></iframe>
+      <iframe id="demoFrame" title="Demo del showroom Shopefecto" data-src="demo/?embed" loading="lazy"></iframe>
       <div class="demo-cover"><span>Demo interactiva · pruébala aquí</span></div>
     </div>
   </div>
@@ -450,8 +450,8 @@ h2{font-size:52px;font-weight:900;letter-spacing:-2px;line-height:1.05;text-alig
   <h1 style="font-size:56px;max-width:900px">Si lo aprueban hoy, <span class="highlight">arrancamos esta tarde.</span></h1>
   <p class="subtitle" style="font-size:20px;margin-left:auto;margin-right:auto">Ezequiel, Claudia: quedamos atentos para armar el grupo con Juan y Meli.</p>
   <div class="close-ctas">
-    <a class="cta-wa" href="https://wa.me/573043148428?text=Hola%20Juan%20Felipe%2C%20vimos%20la%20propuesta%20del%20showroom%20EFE" target="_blank" rel="noopener"><svg width="20" height="20" viewBox="0 0 24 24" fill="white"><path d="M17.47 14.38c-.3-.15-1.76-.87-2.03-.97-.27-.1-.47-.15-.67.15-.2.3-.77.97-.94 1.16-.17.2-.35.22-.64.07-.3-.15-1.26-.46-2.4-1.48-.89-.79-1.49-1.77-1.66-2.07-.17-.3-.02-.46.13-.6.13-.14.3-.35.45-.52.15-.17.2-.3.3-.5.1-.2.05-.37-.03-.52-.07-.15-.67-1.61-.92-2.2-.24-.58-.49-.5-.67-.51h-.57c-.2 0-.52.07-.79.37-.27.3-1.04 1.02-1.04 2.48s1.07 2.88 1.21 3.07c.15.2 2.1 3.2 5.08 4.49.71.31 1.26.49 1.69.63.71.23 1.36.2 1.87.12.57-.09 1.76-.72 2.01-1.41.25-.7.25-1.29.17-1.41-.07-.13-.27-.2-.57-.35M12.05 21.79h-.01a9.87 9.87 0 0 1-5.03-1.38l-.36-.21-3.74.98 1-3.65-.24-.37a9.86 9.86 0 0 1-1.51-5.26c0-5.45 4.44-9.88 9.89-9.88 2.64 0 5.12 1.03 6.99 2.9a9.82 9.82 0 0 1 2.89 6.99c0 5.45-4.43 9.88-9.88 9.88m8.41-18.3A11.81 11.81 0 0 0 12.05 0C5.5 0 .16 5.34.16 11.89c0 2.1.55 4.14 1.59 5.94L.06 24l6.31-1.65a11.88 11.88 0 0 0 5.68 1.45h.01c6.55 0 11.89-5.34 11.89-11.89 0-3.18-1.24-6.16-3.49-8.41"/></svg>Escribir por WhatsApp</a>
-    <a class="cta-mail" href="mailto:juanfe@larealmarketing.com?subject=Showroom%20EFE">juanfe@larealmarketing.com</a>
+    <a class="cta-wa" href="https://wa.me/573043148428?text=Hola%20Juan%20Felipe%2C%20vimos%20la%20propuesta%20del%20showroom%20Shopefecto" target="_blank" rel="noopener"><svg width="20" height="20" viewBox="0 0 24 24" fill="white"><path d="M17.47 14.38c-.3-.15-1.76-.87-2.03-.97-.27-.1-.47-.15-.67.15-.2.3-.77.97-.94 1.16-.17.2-.35.22-.64.07-.3-.15-1.26-.46-2.4-1.48-.89-.79-1.49-1.77-1.66-2.07-.17-.3-.02-.46.13-.6.13-.14.3-.35.45-.52.15-.17.2-.3.3-.5.1-.2.05-.37-.03-.52-.07-.15-.67-1.61-.92-2.2-.24-.58-.49-.5-.67-.51h-.57c-.2 0-.52.07-.79.37-.27.3-1.04 1.02-1.04 2.48s1.07 2.88 1.21 3.07c.15.2 2.1 3.2 5.08 4.49.71.31 1.26.49 1.69.63.71.23 1.36.2 1.87.12.57-.09 1.76-.72 2.01-1.41.25-.7.25-1.29.17-1.41-.07-.13-.27-.2-.57-.35M12.05 21.79h-.01a9.87 9.87 0 0 1-5.03-1.38l-.36-.21-3.74.98 1-3.65-.24-.37a9.86 9.86 0 0 1-1.51-5.26c0-5.45 4.44-9.88 9.89-9.88 2.64 0 5.12 1.03 6.99 2.9a9.82 9.82 0 0 1 2.89 6.99c0 5.45-4.43 9.88-9.88 9.88m8.41-18.3A11.81 11.81 0 0 0 12.05 0C5.5 0 .16 5.34.16 11.89c0 2.1.55 4.14 1.59 5.94L.06 24l6.31-1.65a11.88 11.88 0 0 0 5.68 1.45h.01c6.55 0 11.89-5.34 11.89-11.89 0-3.18-1.24-6.16-3.49-8.41"/></svg>Escribir por WhatsApp</a>
+    <a class="cta-mail" href="mailto:juanfe@larealmarketing.com?subject=Showroom%20Shopefecto">juanfe@larealmarketing.com</a>
   </div>
 </section>
 
